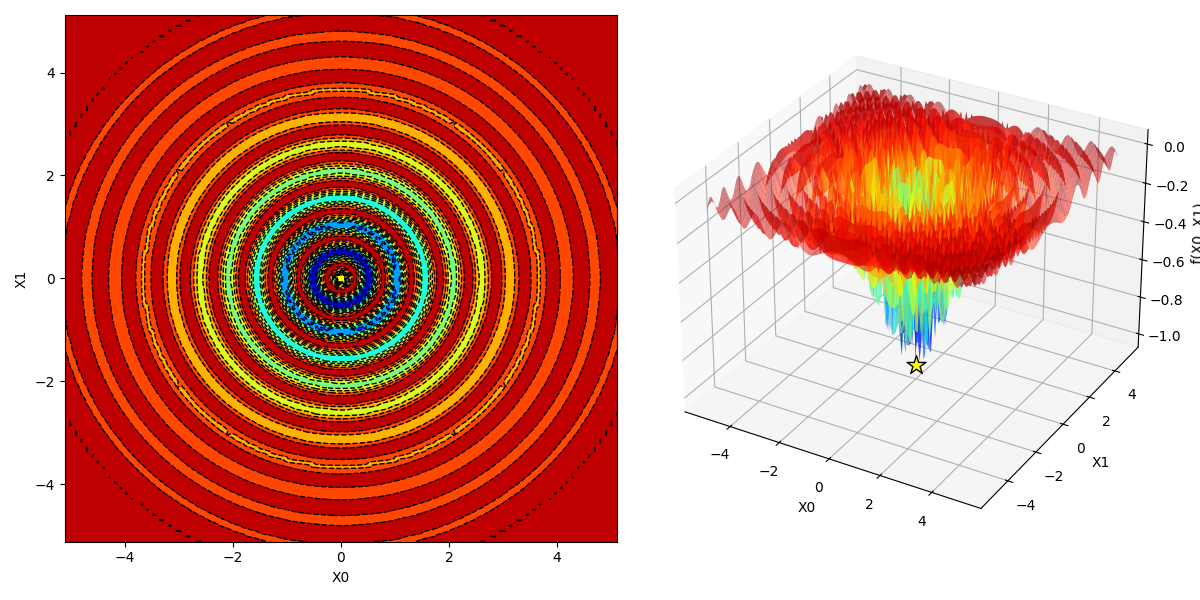
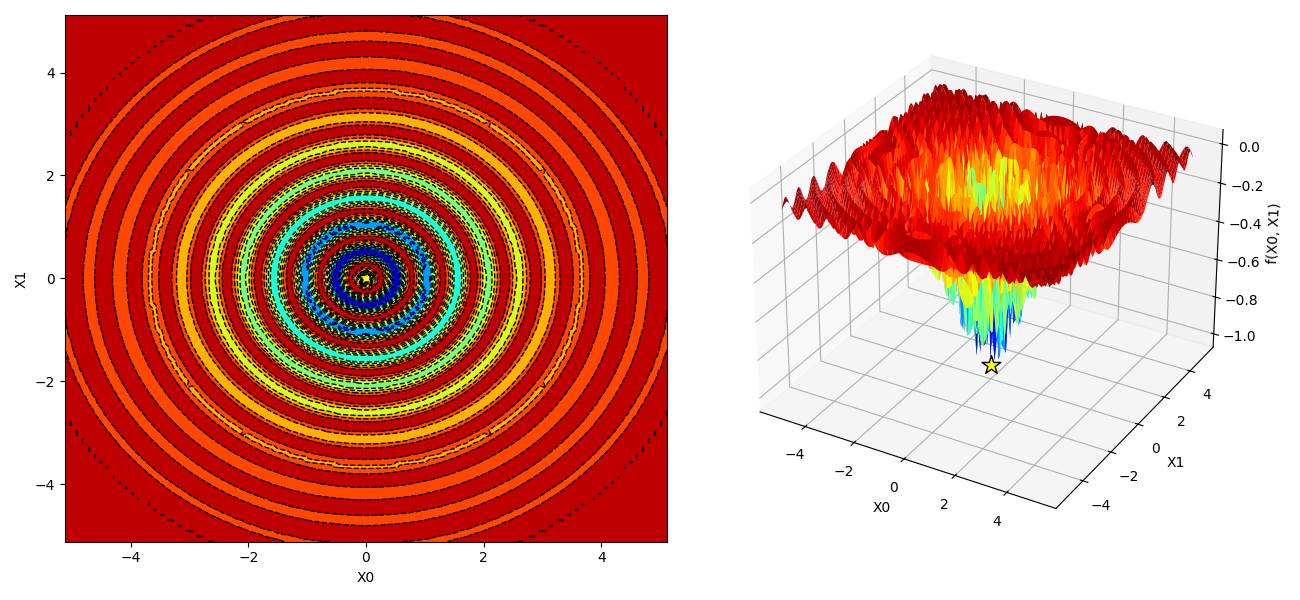
Update Drop-Wave image

diff --git a/main.py b/main.py
@@ -23,7 +23,7 @@ from src.objective_functions.subclasses.levy import Levy
 if __name__ == "__main__":
 
     # Instantiate objective function
-    Bukin6().visualize()
+    DropWave().visualize()
     
 
     '''
